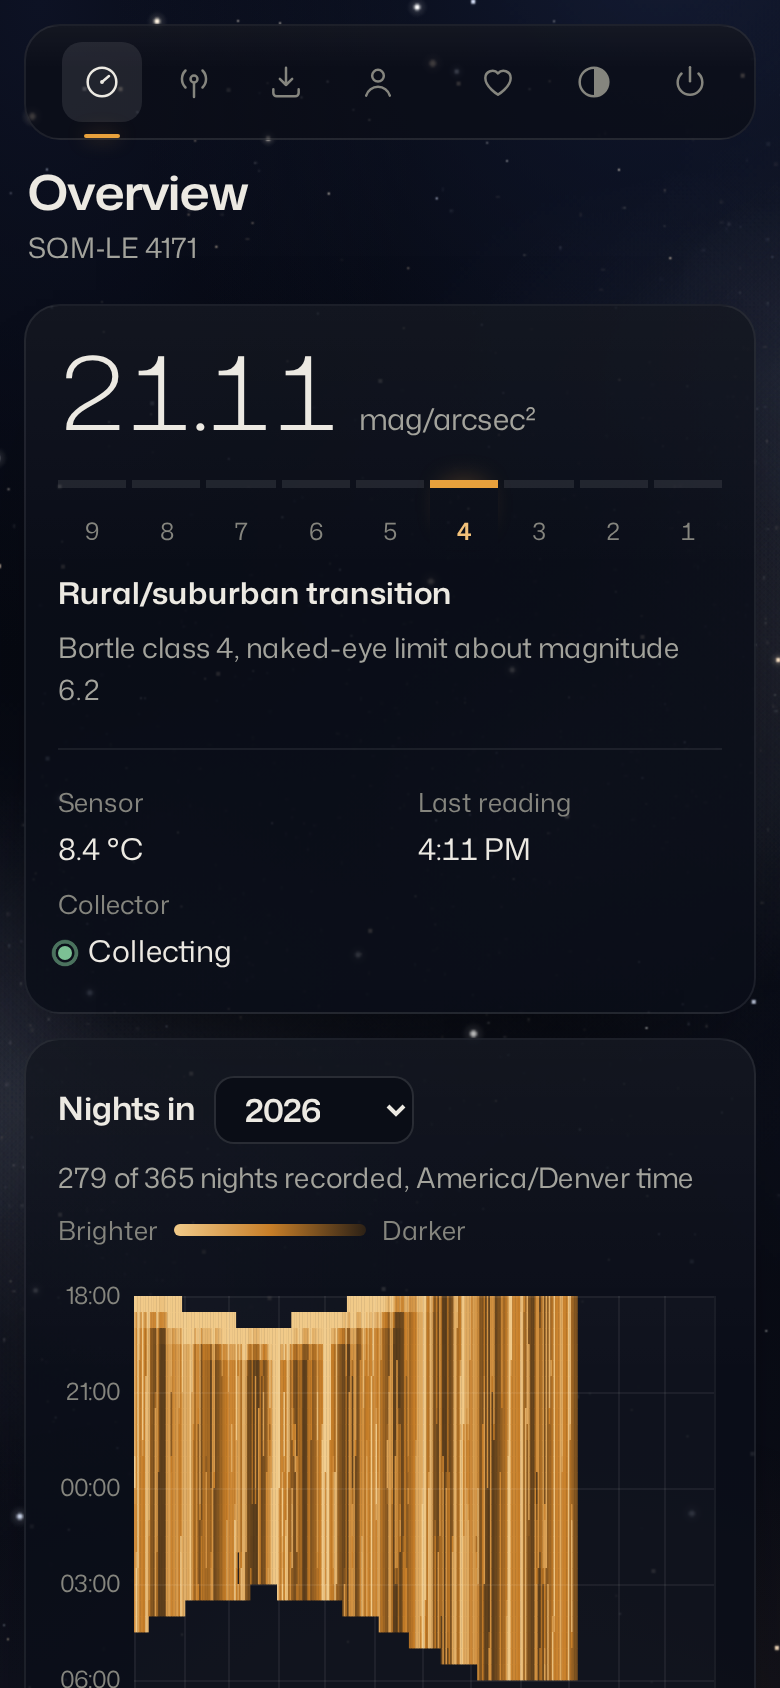
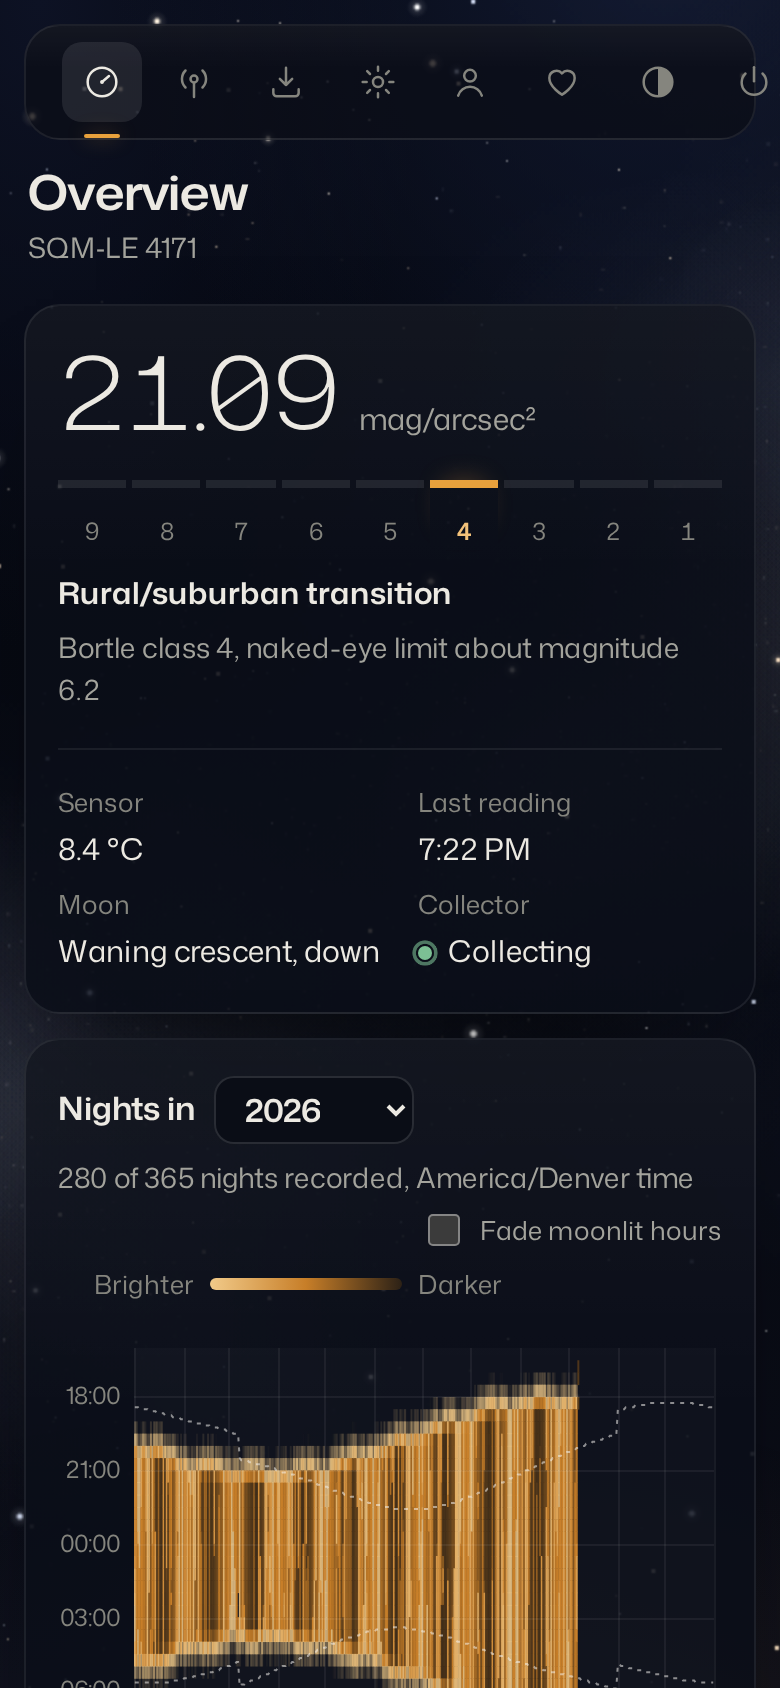
Document 1.1 features and refresh screenshots

diff --git a/sqm_service/__init__.py b/sqm_service/__init__.py
@@ -1,3 +1,3 @@
 """Unihedron SQM collector and web interface."""
 
-__version__ = "1.0.0"
+__version__ = "1.1.0"

diff --git a/README.md b/README.md
@@ -38,7 +38,10 @@ runs on amd64 and arm64, including a Raspberry Pi in an observatory.
   limiting magnitude it implies.
 - A year map with one column per night and one cell per half hour, shaded from
   bright to dark, so cloudy spells, moonlit weeks, and seasonal darkness are
-  visible at a glance.
+  visible at a glance. Twilight fades smoothly into the night.
+- With your observing site set, dotted lines mark astronomical dusk and dawn
+  through the year, moonlit hours can be faded out, and the dashboard shows
+  the moon's phase and whether it is up.
 - A brightness chart over 24 hours, 7 days, 30 days, 1 year, or 5 years, with
   the darkest, brightest, and average values for the range.
 
@@ -50,11 +53,22 @@ runs on amd64 and arm64, including a Raspberry Pi in an observatory.
   reading freshness, and light and dark calibration values.
 - Interval reporting control: see what the meter pushes now and after a
   restart, turn it off, or set a period and darkness threshold.
+- Download the records stored in an SQM-LU-DL's built-in logger
+  (experimental).
 
 **Data**
 - Imports Unihedron Device Manager `.dat` and `.csv` logs by upload or from a
   mounted folder, skipping readings that are already stored.
+- Exports any range as CSV or as a Device Manager `.dat` log.
 - A read-only JSON API protected by an API key.
+
+**Integrations**
+- MQTT publishing with Home Assistant discovery, so the meter appears as a
+  device with sensors for brightness, temperature, Bortle class, and limiting
+  magnitude.
+- Prometheus metrics for Grafana and other monitoring tools.
+- Offline alerts by webhook, ntfy, or Gotify when the meter stops reporting,
+  and again when it recovers.
 
 **Interface**
 - Dark and light themes. The dark theme sits under a slowly turning star field
@@ -67,6 +81,10 @@ runs on amd64 and arm64, including a Raspberry Pi in an observatory.
 | Light theme | Meter page |
 |---|---|
 | ![Overview in the light theme](docs/images/dashboard-light.png) | ![Meter connection, details, and interval reporting](docs/images/meter.png) |
+
+| Settings | Data |
+|---|---|
+| ![Observing site, alerts, MQTT, and Prometheus settings](docs/images/settings.png) | ![Exporting and importing readings](docs/images/data.png) |
 
 | Night sky | Theme switch | Phone |
 |---|---|---|
@@ -215,9 +233,22 @@ after a restart, and lets you change either:
 Before changing anything, the collector checks the meter's lock switch, and it
 reads the settings back afterwards to confirm the meter applied them.
 
-## Importing Device Manager logs
+### Downloading an SQM-LU-DL logger (experimental)
 
-On the **Import** page, drop `.dat` or `.csv` files from Unihedron Device
+When a USB meter has a built-in logger, the **Meter** page shows a **Logger**
+card with the number of stored records. **Download records** copies them into
+the collector, skipping readings that are already stored, and lists the
+download in the import history. The logger is never erased. Records are read
+one at a time, so a full logger can take several minutes; collection keeps
+running between batches.
+
+This follows Unihedron's published logger commands but has not yet been tested
+on real SQM-LU-DL hardware. If you try it, please report how it went in an
+issue.
+
+## Importing and exporting data
+
+On the **Data** page, drop `.dat` or `.csv` files from Unihedron Device
 Manager, or mount a log folder and import it in one step:
 
 ```yaml
@@ -229,6 +260,17 @@ Manager, or mount a log folder and import it in one step:
 Timestamps are matched against stored readings, so importing the same files
 again adds nothing twice. When a folder holds both `.dat` and `.csv` copies of
 a log, the `.dat` file is used.
+
+**Export readings** on the same page downloads the last day, week, month,
+year, or everything, as CSV for spreadsheets or as a Device Manager `.dat`
+log that other SQM tools (and this collector) can import. Exports are also
+available from the API with your key:
+
+```bash
+curl -H "X-API-Key: YOUR_KEY" -OJ "http://localhost:7942/api/export?format=csv"
+```
+
+`since` and `until` (Unix seconds) limit the range.
 
 ## JSON API
 
@@ -272,6 +314,88 @@ only accepted in the header, never in the URL, because URLs end up in logs.
 To call the API from a browser on another site, list that site in
 `CORS_ORIGINS`.
 
+## Settings and integrations
+
+Open **Settings** in the sidebar to configure the observing site, offline
+alerts, MQTT, and Prometheus. Each of these can also be set with environment
+variables (see [Configuration](#configuration)); a value set in the
+environment is shown locked in the web interface.
+
+### Observing site
+
+Enter your latitude and longitude (east positive) to add astronomical
+darkness and the moon to the year map and dashboard. The collector computes
+sun and moon positions itself, with no internet access needed.
+
+### Home Assistant and MQTT
+
+Enter your broker's host (and username and password if it needs them). Each
+reading is published as JSON to `sqm/<serial>/state`:
+
+```json
+{
+  "collector": "collecting",
+  "mpsas": 21.09,
+  "temperature_c": 8.4,
+  "frequency_hz": 3,
+  "timestamp": "2026-10-07T04:13:51+00:00",
+  "bortle": 4,
+  "nelm": 6.17
+}
+```
+
+`sqm/<serial>/availability` is `online` while the collector is connected to the broker and
+`offline` otherwise. With Home Assistant discovery on, the meter appears in
+Home Assistant as a device with sensors for sky brightness, sensor
+temperature, limiting magnitude, and Bortle class, plus a connectivity sensor
+for the collector. The **MQTT** card shows whether the broker is connected.
+
+### Prometheus
+
+Metrics are served at `/metrics` and include sky brightness, temperature,
+frequency, limiting magnitude, Bortle class, the time of the last reading,
+whether collection is running, and the number of stored readings. Send the
+API key as a bearer token:
+
+```yaml
+scrape_configs:
+  - job_name: sqm
+    scrape_interval: 60s
+    authorization:
+      credentials: YOUR_KEY
+    static_configs:
+      - targets: ["sqm.lan:7942"]
+```
+
+On a trusted network you can allow access without the key instead.
+
+### Offline alerts
+
+Enter a URL to be told when no reading has arrived for a set number of hours
+(two by default), and again when readings resume. **Send test** checks the URL
+right away.
+
+- **JSON webhook** posts a JSON body to any webhook, such as Home Assistant,
+  n8n, or a chat integration:
+
+  ```json
+  {
+    "event": "offline",
+    "serial": "4171",
+    "message": "No reading for more than 2 hours. Last error: connect to 192.168.1.50:10001 failed: timed out.",
+    "collector_state": "offline",
+    "last_success": "2026-10-07T04:13:51+00:00",
+    "public_url": "http://localhost:7942"
+  }
+  ```
+
+- **ntfy or Gotify** posts a plain-text message with a title, so a URL like
+  `https://ntfy.sh/your-topic` sends a push notification to your phone.
+
+If a message cannot be delivered, the collector tries again on the next check
+a minute later, so a short outage at the receiving end does not lose the
+alert.
+
 ## Configuration
 
 All settings are optional. Set them in `.env` next to `compose.yaml`.
@@ -296,9 +420,25 @@ All settings are optional. Set them in `.env` next to `compose.yaml`.
 | `SESSION_COOKIE_SECURE` | `false` | Set to `true` when the app is served over HTTPS |
 | `CORS_ORIGINS` | blank | Comma-separated origins allowed to call the API from a browser |
 | `MAX_UPLOAD_MB` | `20` | Largest log file accepted by the importer |
+| `SQM_SITE_LATITUDE` | blank | Observing site latitude in degrees |
+| `SQM_SITE_LONGITUDE` | blank | Observing site longitude in degrees, east positive |
+| `SQM_MQTT_HOST` | blank | MQTT broker host; blank turns MQTT off |
+| `SQM_MQTT_PORT` | `1883` | MQTT broker port |
+| `SQM_MQTT_USERNAME` | blank | MQTT username |
+| `SQM_MQTT_PASSWORD` | blank | MQTT password; also accepts `SQM_MQTT_PASSWORD_FILE` |
+| `SQM_MQTT_TLS` | `false` | Connect to the broker over TLS |
+| `SQM_MQTT_BASE_TOPIC` | `sqm` | Topic prefix for state and availability |
+| `SQM_MQTT_DISCOVERY` | `true` | Publish Home Assistant discovery messages |
+| `SQM_MQTT_DISCOVERY_PREFIX` | `homeassistant` | Home Assistant discovery prefix |
+| `SQM_PROMETHEUS_PUBLIC` | `false` | Serve `/metrics` without the API key |
+| `SQM_ALERTS_URL` | blank | Webhook, ntfy, or Gotify URL for offline alerts |
+| `SQM_ALERTS_FORMAT` | `json` | `json` or `ntfy` |
+| `SQM_ALERTS_OFFLINE_HOURS` | `2` | Hours without a reading before an alert |
 
-The meter connection can also be chosen on the **Meter** page. A connection
-set in the environment takes precedence over one saved in the web interface.
+The meter connection can also be chosen on the **Meter** page, and the
+`SQM_SITE_`, `SQM_MQTT_`, `SQM_PROMETHEUS_`, and `SQM_ALERTS_` values on the
+**Settings** page. A value set in the environment takes precedence over one
+saved in the web interface.
 `ADMIN_PASSWORD` and `API_KEY` also accept `_FILE` variants for Docker secrets,
 such as `ADMIN_PASSWORD_FILE=/run/secrets/sqm_admin`.
 
@@ -410,8 +550,10 @@ docker compose -f compose.yaml -f compose.dev.yaml up -d --build
 ```
 
 The tests cover the meter protocol (with simulated Ethernet and serial
-meters), meter settings, the importer, the year map, sky-quality conversions,
-the meter web routes, and security helpers. The `tests/smoke_*.py` scripts are
+meters), meter settings, the LU-DL logger, the importer and exporter, the year
+map, sun and moon positions (checked against worked examples from Meeus's
+*Astronomical Algorithms*), MQTT and Home Assistant discovery, Prometheus
+metrics, alerts, settings, the web routes, and security helpers. The `tests/smoke_*.py` scripts are
 end-to-end checks to run against a started container.
 
 Every push to `main` and every version tag runs the tests and publishes a
